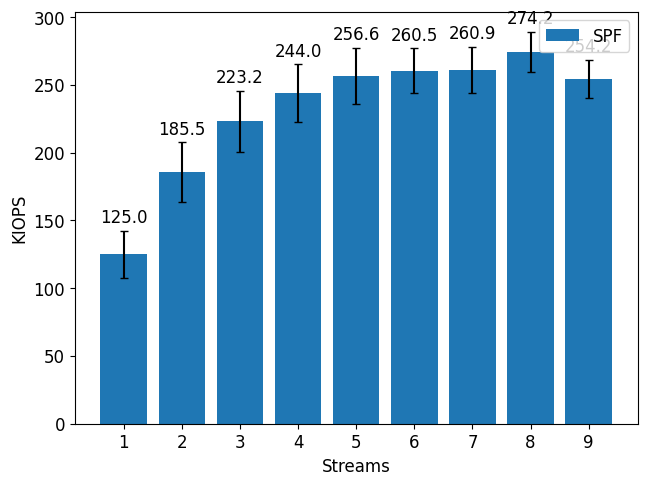
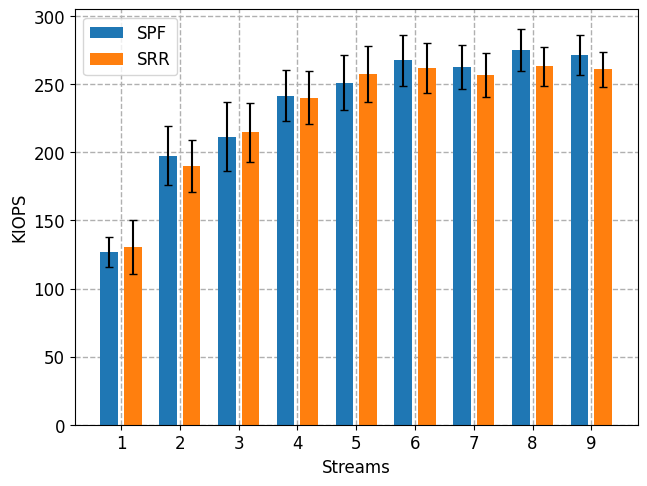
Add figs

diff --git a/hot-streams/plot.py b/hot-streams/plot.py
@@ -40,46 +40,79 @@ def parse_fio_data(data_path, data):
 
     return 1
 
-def plot_throughput(nr_streams, spf_data, f2fs_data):
+def plot_throughput(nr_streams, spf_data, srr_data):
     x = np.arange(0, nr_streams)
 
-    iops = [None] * nr_streams
-    iops_stddev = [None] * nr_streams
+    spf_iops = [None] * nr_streams
+    spf_iops_stddev = [None] * nr_streams
+    srr_iops = [None] * nr_streams
+    srr_iops_stddev = [None] * nr_streams
 
     for key, item in spf_data.items():
         if 'single_file' in key:
-            iops[0] = item['jobs'][0]['write']['iops']/1000
-            iops_stddev[0] = item['jobs'][0]['write']['iops_stddev']/1000
+            spf_iops[0] = item['jobs'][0]['write']['iops']/1000
+            spf_iops_stddev[0] = item['jobs'][0]['write']['iops_stddev']/1000
         if 'two_file' in key:
-            iops[1] = item['jobs'][0]['write']['iops']/1000
-            iops_stddev[1] = item['jobs'][0]['write']['iops_stddev']/1000
+            spf_iops[1] = item['jobs'][0]['write']['iops']/1000
+            spf_iops_stddev[1] = item['jobs'][0]['write']['iops_stddev']/1000
         if 'three_file' in key:
-            iops[2] = item['jobs'][0]['write']['iops']/1000
-            iops_stddev[2] = item['jobs'][0]['write']['iops_stddev']/1000
+            spf_iops[2] = item['jobs'][0]['write']['iops']/1000
+            spf_iops_stddev[2] = item['jobs'][0]['write']['iops_stddev']/1000
         if 'four_file' in key:
-            iops[3] = item['jobs'][0]['write']['iops']/1000
-            iops_stddev[3] = item['jobs'][0]['write']['iops_stddev']/1000
+            spf_iops[3] = item['jobs'][0]['write']['iops']/1000
+            spf_iops_stddev[3] = item['jobs'][0]['write']['iops_stddev']/1000
         if 'five_file' in key:
-            iops[4] = item['jobs'][0]['write']['iops']/1000
-            iops_stddev[4] = item['jobs'][0]['write']['iops_stddev']/1000
+            spf_iops[4] = item['jobs'][0]['write']['iops']/1000
+            spf_iops_stddev[4] = item['jobs'][0]['write']['iops_stddev']/1000
         if 'six_file' in key:
-            iops[5] = item['jobs'][0]['write']['iops']/1000
-            iops_stddev[5] = item['jobs'][0]['write']['iops_stddev']/1000
+            spf_iops[5] = item['jobs'][0]['write']['iops']/1000
+            spf_iops_stddev[5] = item['jobs'][0]['write']['iops_stddev']/1000
         if 'seven_file' in key:
-            iops[6] = item['jobs'][0]['write']['iops']/1000
-            iops_stddev[6] = item['jobs'][0]['write']['iops_stddev']/1000
+            spf_iops[6] = item['jobs'][0]['write']['iops']/1000
+            spf_iops_stddev[6] = item['jobs'][0]['write']['iops_stddev']/1000
         if 'eight_file' in key:
-            iops[7] = item['jobs'][0]['write']['iops']/1000
-            iops_stddev[7] = item['jobs'][0]['write']['iops_stddev']/1000
+            spf_iops[7] = item['jobs'][0]['write']['iops']/1000
+            spf_iops_stddev[7] = item['jobs'][0]['write']['iops_stddev']/1000
         if 'nine_file' in key:
-            iops[8] = item['jobs'][0]['write']['iops']/1000
-            iops_stddev[8] = item['jobs'][0]['write']['iops_stddev']/1000
+            spf_iops[8] = item['jobs'][0]['write']['iops']/1000
+            spf_iops_stddev[8] = item['jobs'][0]['write']['iops_stddev']/1000
+
+    for key, item in srr_data.items():
+        if 'single_file' in key:
+            srr_iops[0] = item['jobs'][0]['write']['iops']/1000
+            srr_iops_stddev[0] = item['jobs'][0]['write']['iops_stddev']/1000
+        if 'two_file' in key:
+            srr_iops[1] = item['jobs'][0]['write']['iops']/1000
+            srr_iops_stddev[1] = item['jobs'][0]['write']['iops_stddev']/1000
+        if 'three_file' in key:
+            srr_iops[2] = item['jobs'][0]['write']['iops']/1000
+            srr_iops_stddev[2] = item['jobs'][0]['write']['iops_stddev']/1000
+        if 'four_file' in key:
+            srr_iops[3] = item['jobs'][0]['write']['iops']/1000
+            srr_iops_stddev[3] = item['jobs'][0]['write']['iops_stddev']/1000
+        if 'five_file' in key:
+            srr_iops[4] = item['jobs'][0]['write']['iops']/1000
+            srr_iops_stddev[4] = item['jobs'][0]['write']['iops_stddev']/1000
+        if 'six_file' in key:
+            srr_iops[5] = item['jobs'][0]['write']['iops']/1000
+            srr_iops_stddev[5] = item['jobs'][0]['write']['iops_stddev']/1000
+        if 'seven_file' in key:
+            srr_iops[6] = item['jobs'][0]['write']['iops']/1000
+            srr_iops_stddev[6] = item['jobs'][0]['write']['iops_stddev']/1000
+        if 'eight_file' in key:
+            srr_iops[7] = item['jobs'][0]['write']['iops']/1000
+            srr_iops_stddev[7] = item['jobs'][0]['write']['iops_stddev']/1000
+        if 'nine_file' in key:
+            srr_iops[8] = item['jobs'][0]['write']['iops']/1000
+            srr_iops_stddev[8] = item['jobs'][0]['write']['iops_stddev']/1000
 
     fig, ax = plt.subplots()
 
-    rects1 = ax.bar(x, iops, yerr=iops_stddev, capsize=3, label="SPF")
+    rects1 = ax.bar(x - 0.2, spf_iops, yerr=spf_iops_stddev, width=0.3, capsize=3, label="SPF")
+    rects2 = ax.bar(x + 0.2, srr_iops, yerr=srr_iops_stddev, width=0.3, capsize=3, label="SRR")
 
-    ax.bar_label(rects1, padding=3, fmt="%.1f")
+    # ax.bar_label(rects1, padding=3, fmt="%.1f")
+    # ax.bar_label(rects2, padding=3, fmt="%.1f")
 
     # Plotting horizontal lines for max throughput on ZNS
     # plt.axhline(y = 257364.462305/1000, color = 'r', linestyle = ':', label = "ZNS 1 Zone")
@@ -87,9 +120,9 @@ def plot_throughput(nr_streams, spf_data, f2fs_data):
     # plt.axhline(y = 378353.052926/1000, color = 'green', linestyle = 'dashdot', label = "ZNS 3 Zones")
 
     fig.tight_layout()
-    # ax.grid(which='major', linestyle='dashed', linewidth='1')
+    ax.grid(which='major', linestyle='dashed', linewidth='1')
     ax.set_axisbelow(True)
-    ax.legend(loc='upper right')
+    ax.legend(loc='upper left')
     ax.xaxis.set_ticks(x)
     ax.xaxis.set_ticklabels(np.arange(1,nr_streams + 1))
     ax.set_ylim(bottom=0)
@@ -115,7 +148,7 @@ if __name__ == '__main__':
     srr_path = None
 
     try:
-        opts, args = getopt.getopt(sys.argv[1:], 'n:z:', ['p=', 'r='])
+        opts, args = getopt.getopt(sys.argv[1:], 'p:r:', ['p=', 'r='])
     except getopt.GetoptError:
         sys.exit(2)
 
@@ -127,6 +160,7 @@ if __name__ == '__main__':
 
     if spf_path == None or srr_path == None:
         print(f"Error, missing arguments. < -p spf_data path > < -r srr_data path >")
+        sys.exit(2)
 
     file_path = '/'.join(os.path.abspath(__file__).split('/')[:-1])
 
@@ -136,6 +170,4 @@ if __name__ == '__main__':
     parse_fio_data(f'{file_path}/{spf_path}/', spf_data)
     parse_fio_data(f'{file_path}/{srr_path}/', srr_data)
 
-    # plot_throughput(3)
-    # plot_throughput(6)
     plot_throughput(9, spf_data, srr_data)
